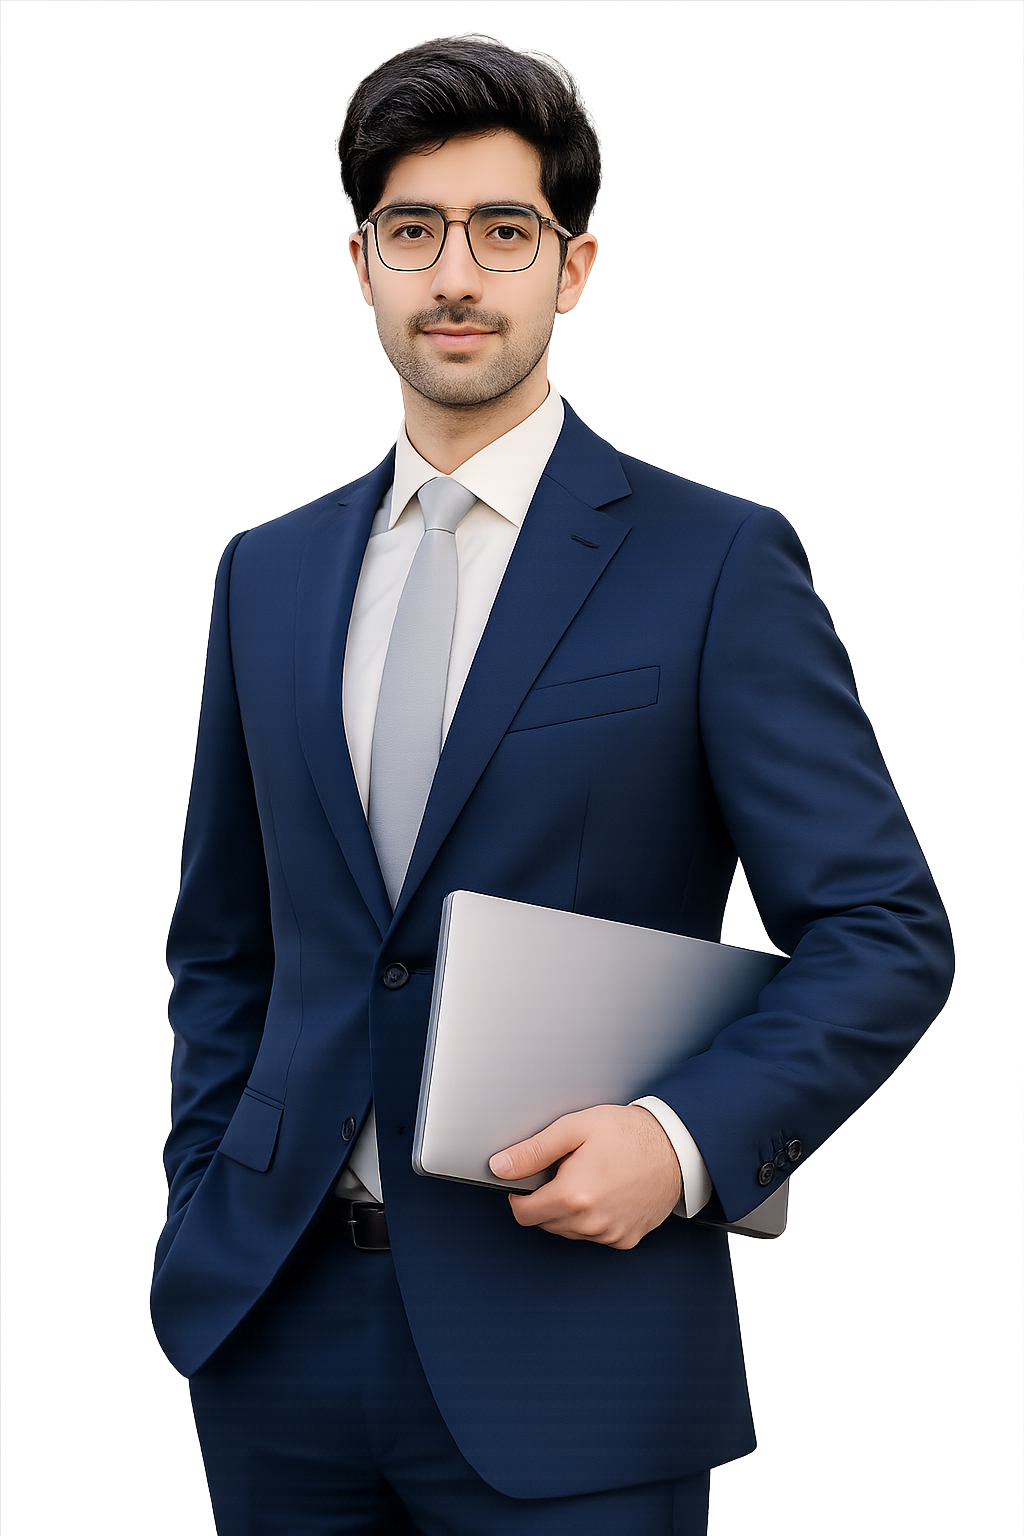
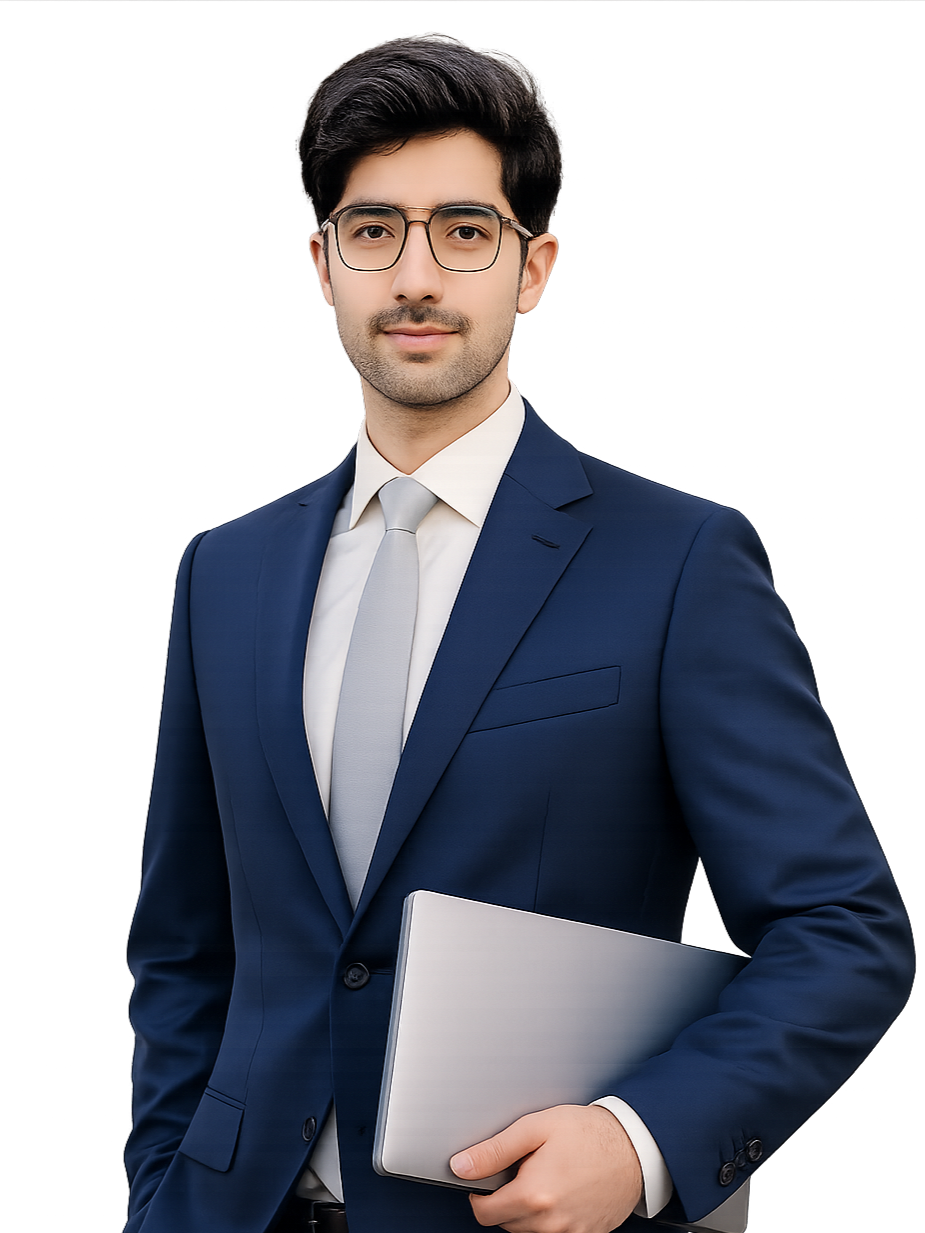
update images

diff --git a/src/components/home/StatsSection.tsx b/src/components/home/StatsSection.tsx
@@ -79,7 +79,7 @@ export default function StatsSection() {
               {/* Main Visual */}
               <div className="relative w-full aspect-square rounded-3xl overflow-hidden bg-gradient-to-br from-primary/20 to-lavender/30 shadow-float">
                 <Image
-                  src="/images/stats-image-3.png" // User will update this manually
+                  src="/images/stats-image-2.png" // User will update this manually
                   alt="Stats Image"
                   fill
                   className="object-contain object-bottom"
